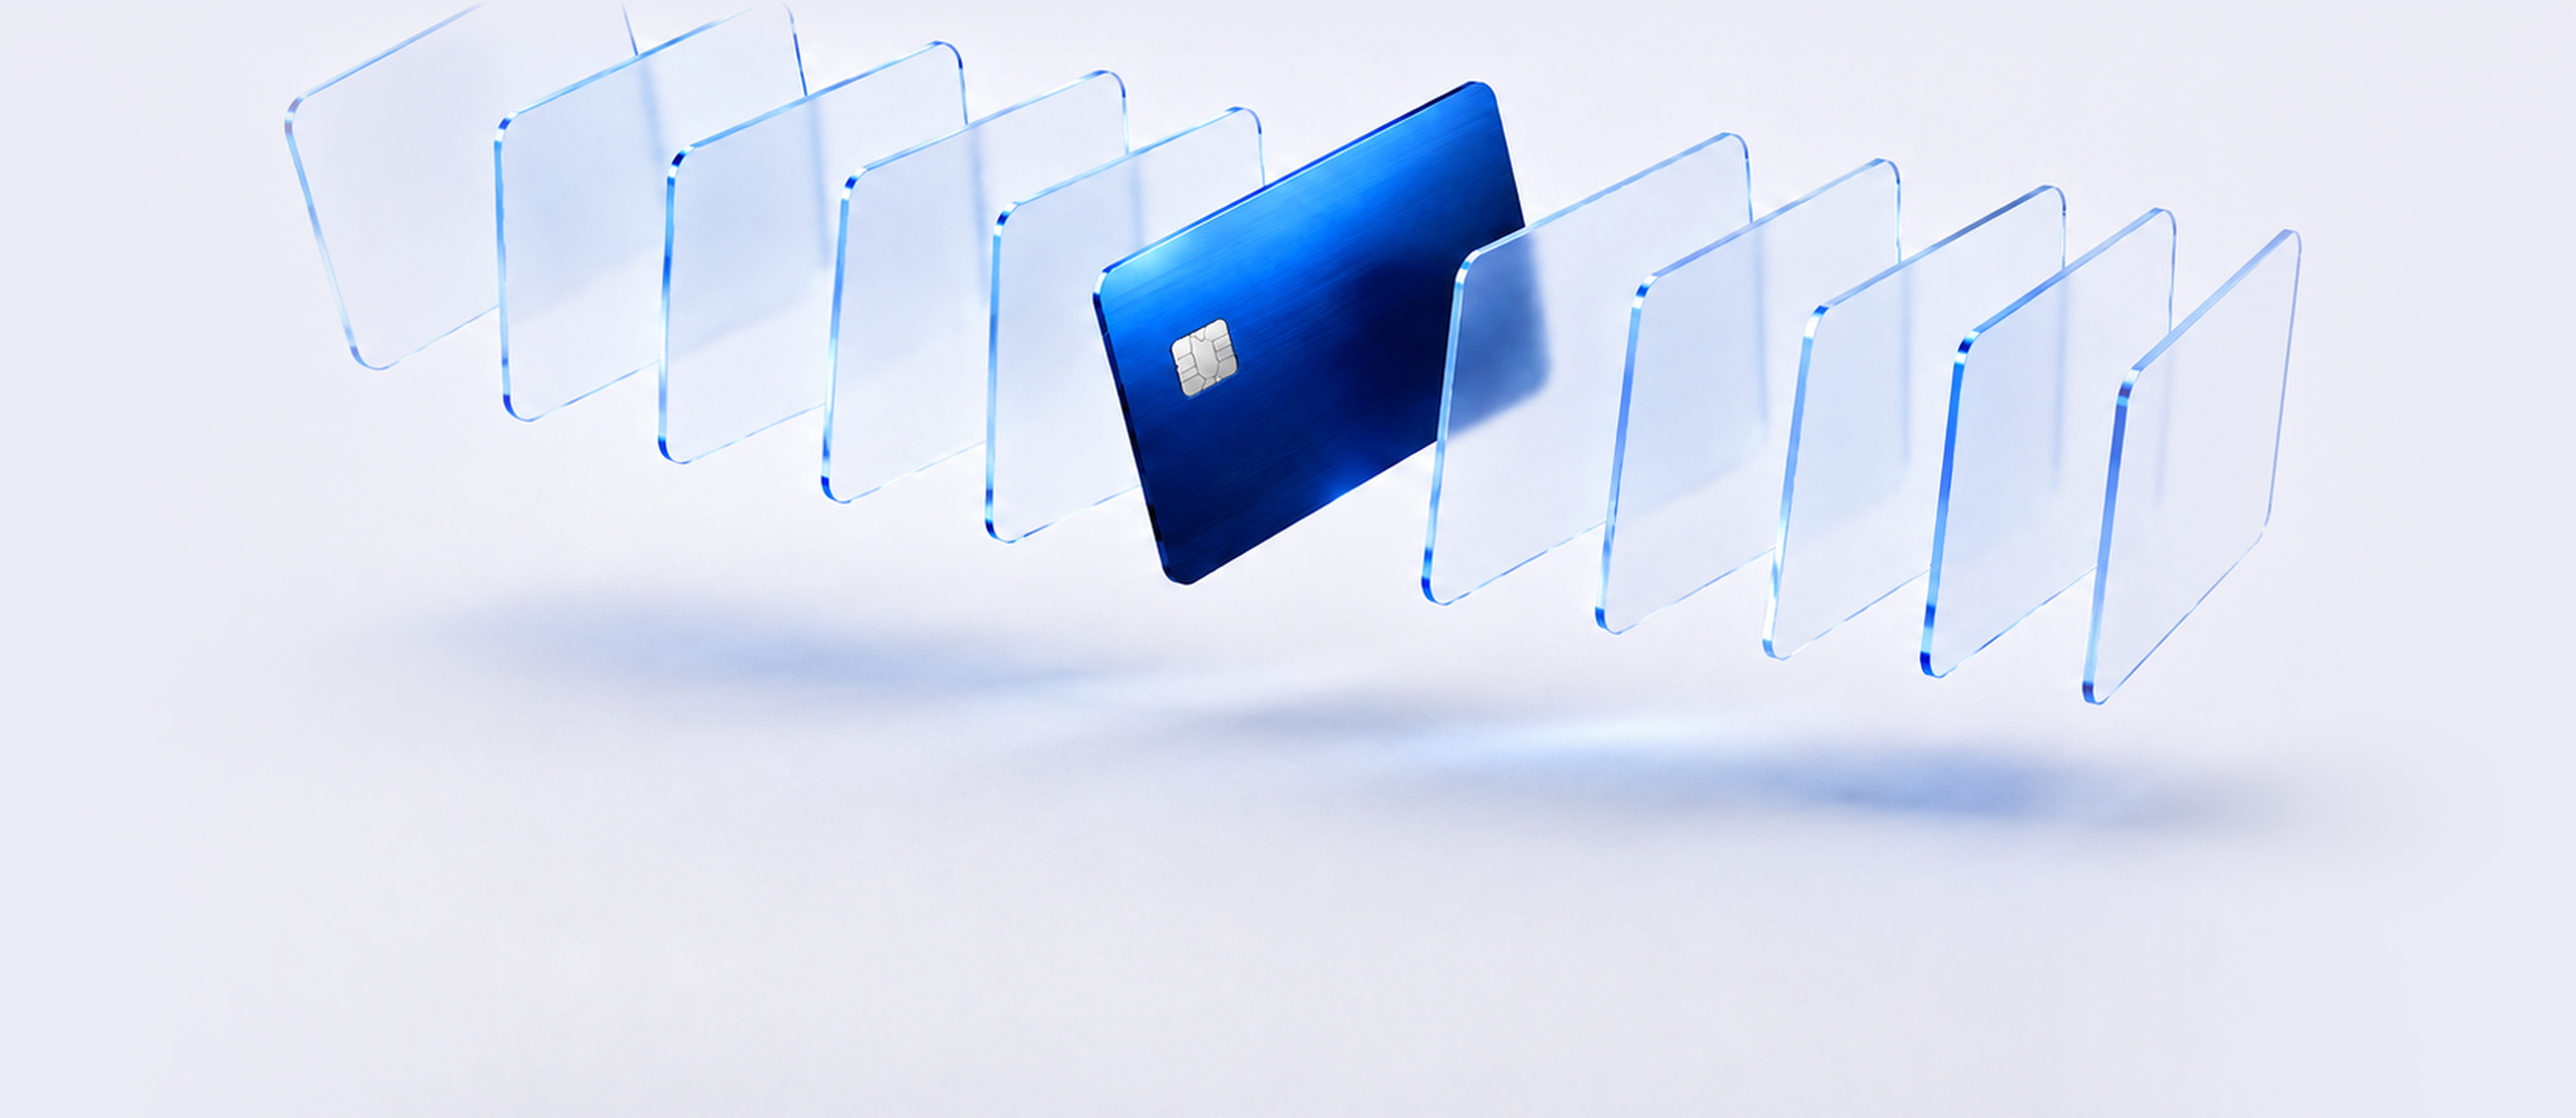
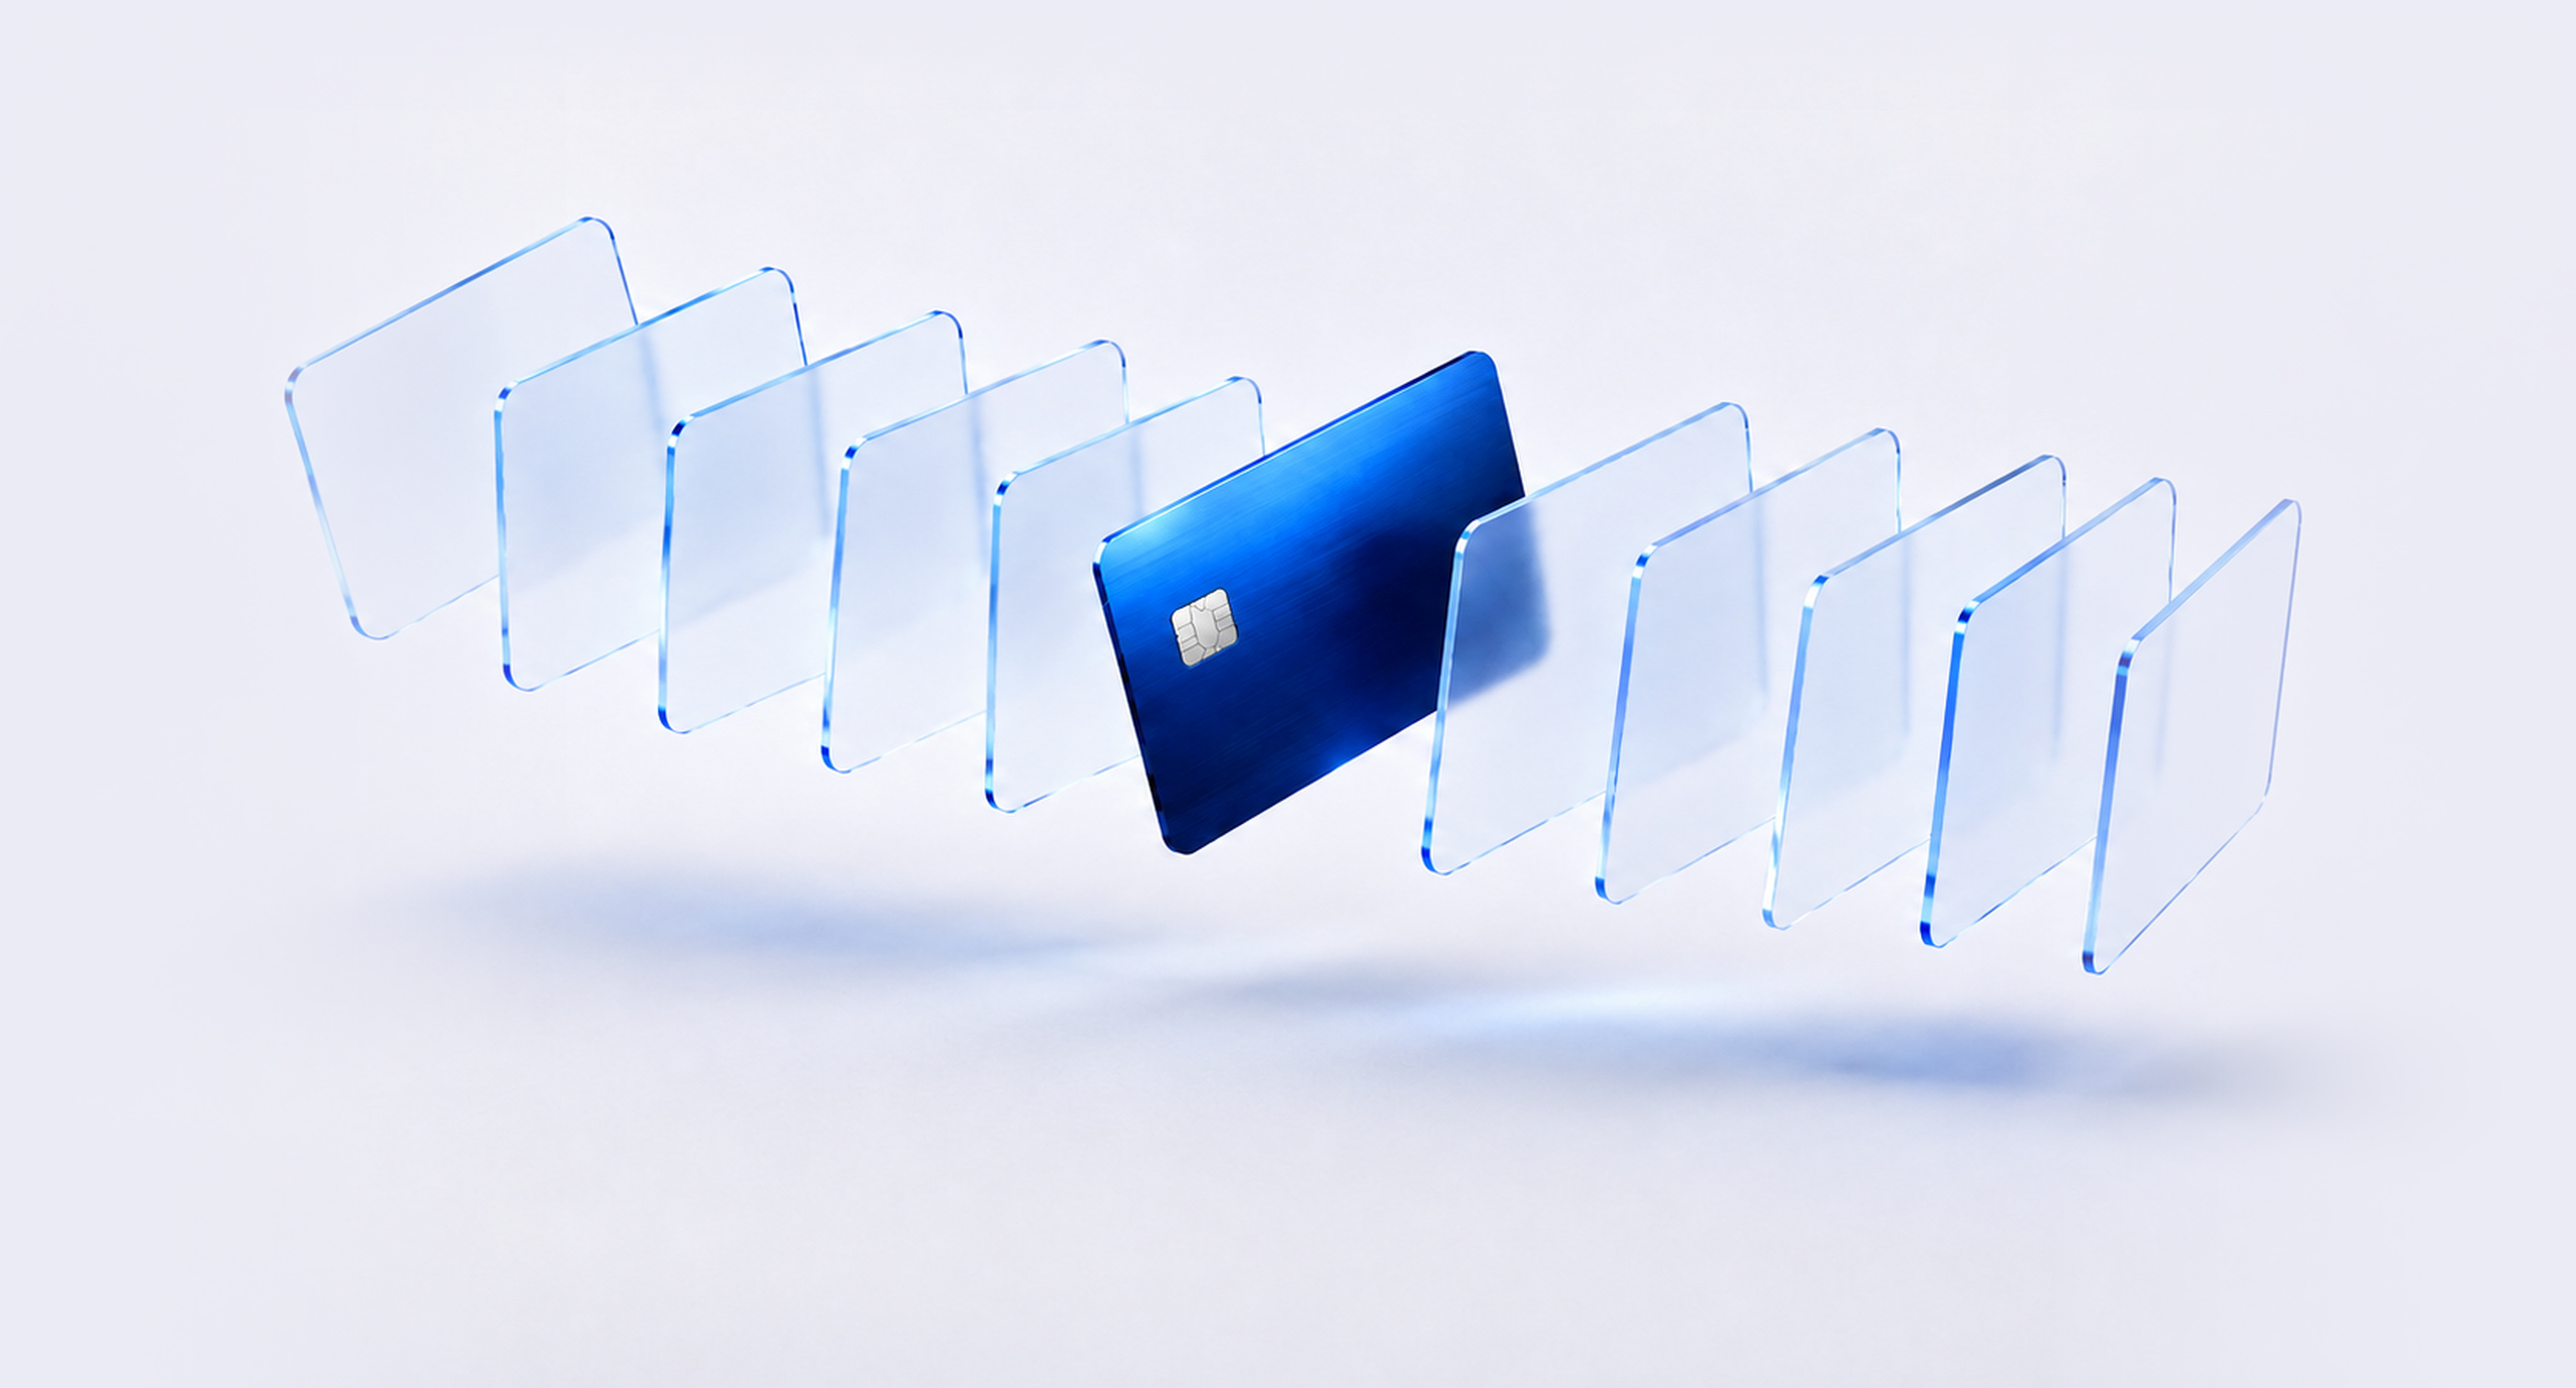
하단 CTA 카드 윗부분 잘림 복구

diff --git a/index.html b/index.html
@@ -378,7 +378,7 @@
 
   /* ⑧ 마무리 — 밝은 카드 이미지 배경 · 어두운 글 */
   #endcta{position:relative; background-color:#ECECF6;
-    background-image:url('img/cta-bg3.jpg?v=2');
+    background-image:url('img/cta-bg3.jpg?v=3');
     background-size:2000px auto; background-position:center calc(100% + 140px);
     background-repeat:no-repeat;
     min-height:0; justify-content:flex-start; padding-top:150px; padding-bottom:853px;}
